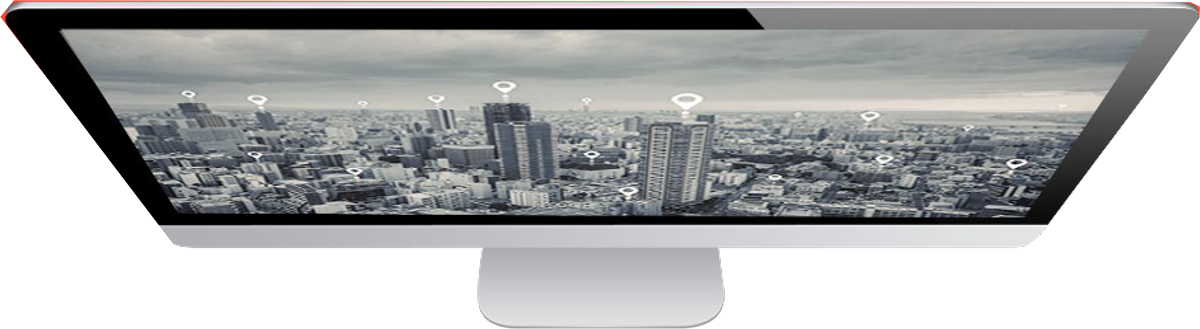
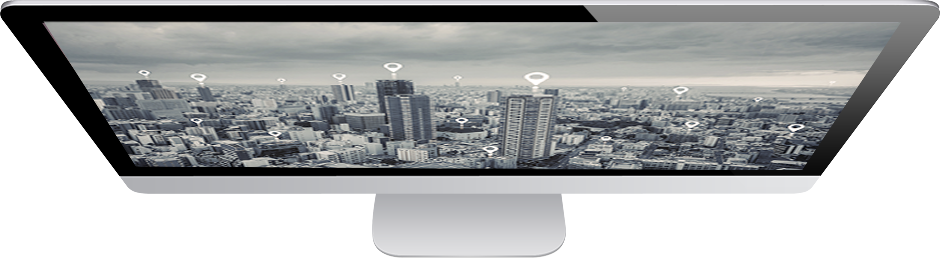
[FIX] fixes images
- Laptop responsive
- Fixes images
- responsive data

diff --git a/src/components/applications/applications.css b/src/components/applications/applications.css
@@ -91,6 +91,27 @@
     background-color: var(--primary);
     color: #f3f3f3;
 }
+
+.mac__imag{
+    position: relative;
+}
+.mac__imag_top{
+    position: absolute;
+    top: -110px;
+    left: 50%;
+    margin-left: -400px;
+}
+.mac__imag_top img{
+    max-width: 800px;
+}
+.mac__imag-spacer{
+    height: 150px;
+    display: block;
+    margin-bottom: 3rem;
+}
+.mac__img_title{
+    max-width: 500px;
+}
 @media screen and (max-width: 480px) {
     .app__services{
         grid-template-columns: repeat(2, 1fr);
@@ -109,5 +130,16 @@
     }
     .app__services-item:last-child{
         grid-column-end: span 2;
+    }
+    .mac__imag_top{
+        position: static;
+        display: block;
+        margin-left: 0;
+    }
+    .mac__imag_top img{
+        width: 100%;
+    }
+    .mac__imag-spacer{
+        height: 1px;
     }
 } 

diff --git a/src/components/applications/Aplications.js b/src/components/applications/Aplications.js
@@ -7,8 +7,16 @@ import laptop from '../../assets/mac.png'
 export default function Application() {
   return (
     <section className="applications">
-      <div className="">
-        <img src={laptop} alt="laptop" />
+      <div className="mac__imag">
+        <div className="mac__imag_top">
+          <img src={laptop} alt="laptop" />
+        </div>
+        <span className="mac__imag-spacer"></span>
+        <div className="mac__img_title is-flex is-justify-content-center is-align-items-center has-text-centered m-auto pb-5">
+          <h4 className="is-size-4 is-size-5-mobile">
+            sistema de planificación de recursos empresariales
+          </h4>
+        </div>
       </div>
       <div className="container">
         <Titles title="Aplicaciones" />

diff --git a/src/style.css b/src/style.css
@@ -48,6 +48,7 @@ body{
     background-size: cover;
     overflow: hidden;
     background-blend-mode: multiply;
+    background-attachment: fixed;
 }
 
 .banner__header-title{
